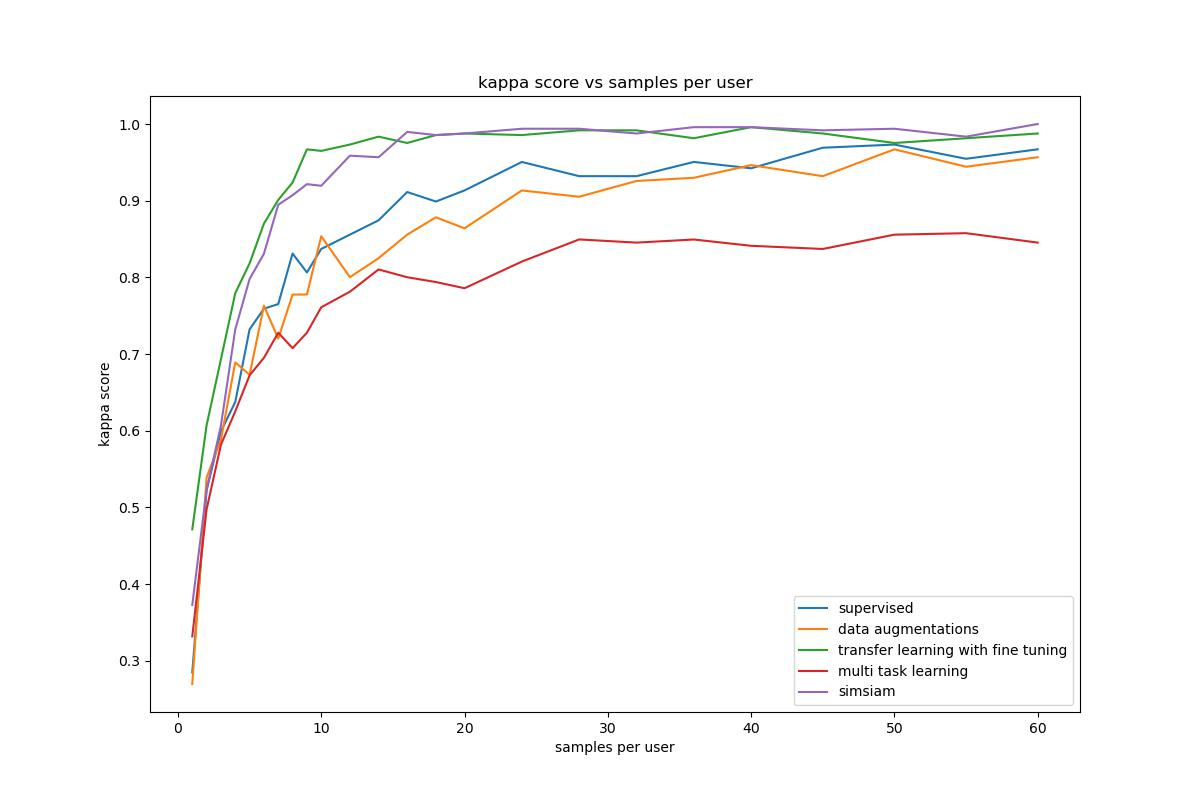
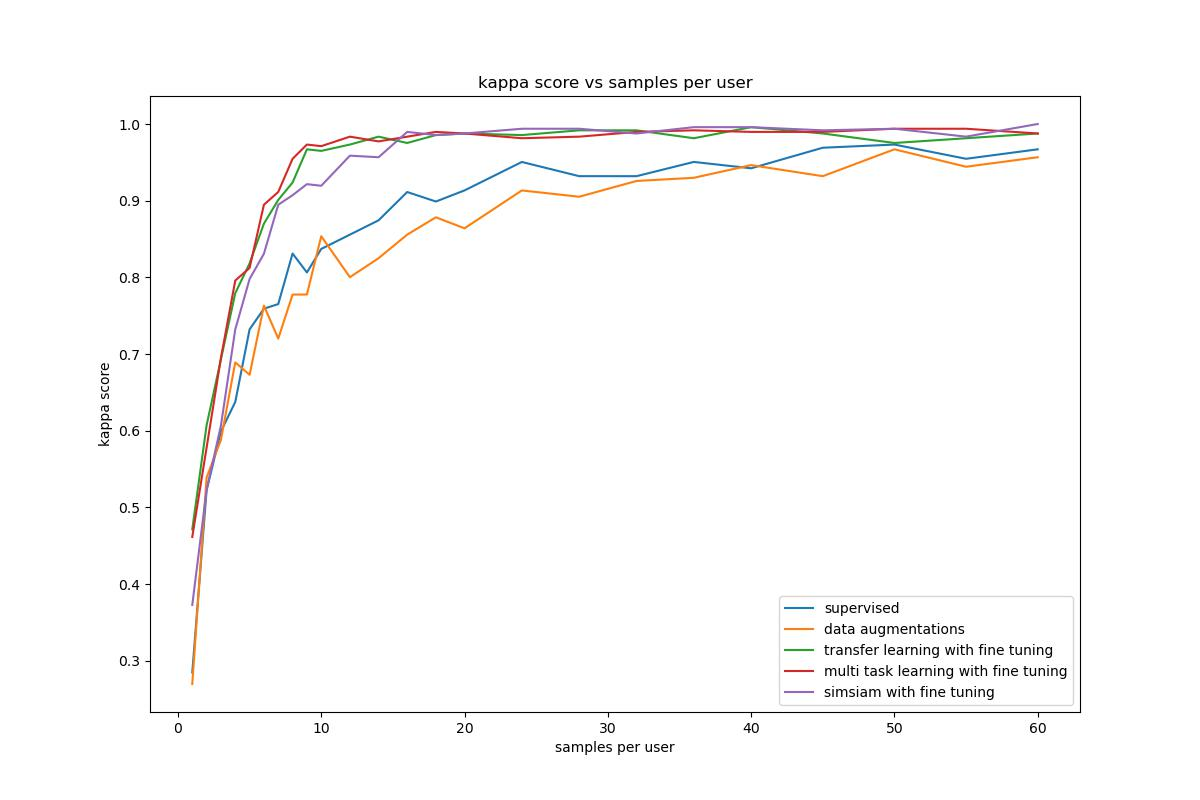
multi task fine tune finished

diff --git a/experiments/MusicID/scen.3/multi_task/data_loader.py b/experiments/MusicID/scen.3/multi_task/data_loader.py
@@ -118,16 +118,16 @@ def data_load(path, users, frame_size=30):
   return x_train, np.array(y_train), x_val, np.array(y_val), x_test, np.array(y_test), sessions
   
 def norma(x_train, x_val, x_test):
-  x = np.reshape(x_train,((x_train.shape[0]*(x_train.shape[1],(x_train.shape[2]))
+  x = np.reshape(x_train,(x_train.shape[0]*x_train.shape[1],x_train.shape[2]))
   scaler = StandardScaler()
   x = scaler.fit_transform(x)
   x_train = np.reshape(x,(x_train.shape[0],x_train.shape[1],x_train.shape[2]))
   
-  x = np.reshape(x_val,((x_val.shape[0]*(x_val.shape[1],(x_val.shape[2]))
+  x = np.reshape(x_val,(x_val.shape[0]*x_val.shape[1],x_val.shape[2]))
   x = scaler.transform(x)
   x_val = np.reshape(x,(x_val.shape[0],x_val.shape[1],x_val.shape[2]))
   
-  x = np.reshape(x_test,((x_test.shape[0]*(x_testl.shape[1],(x_test.shape[2]))
+  x = np.reshape(x_test,(x_test.shape[0]*x_test.shape[1],x_test.shape[2]))
   x = scaler.transform(x)
   x_test = np.reshape(x,(x_test.shape[0],x_test.shape[1],x_test.shape[2]))
   

diff --git a/experiments/MusicID/scen.3/plots.py b/experiments/MusicID/scen.3/plots.py
@@ -147,14 +147,14 @@ plotter(paths, names, variable, variable_name, graph_name)
 paths = ["supervised/graph_data/musicid_scen3_supervised.npz",
           "da/graph_data/musicid_scen3_DA.npz",
           "transfer/graph_data/musicid_scen3_ft5_transfer.npz",
-          "multi_task/graph_data/musicid_scen3_multi task.npz",
+          "multi_task/graph_data/musicid_scen3_ft5_multi task.npz",
           "simsiam/graph_data/musicid_scen3_ft5_simsiam.npz"]
           
 names = ["supervised",
           "data augmentations",
           "transfer learning with fine tuning",
-          "multi task learning",
-          "simsiam"]
+          "multi task learning with fine tuning",
+          "simsiam with fine tuning"]
           
 variable = [1,2,3,4,5,6,7,8,9,10,12,14,16,18,20,24,28,32,36,40,45,50,55,60]
 variable_name = "samples per user"

diff --git a/experiments/MusicID/scen.3/multi_task/plot_loop.py b/experiments/MusicID/scen.3/multi_task/plot_loop.py
@@ -13,5 +13,5 @@ from plot_results import *
 # 4 layer: ft=12 #5
 # all layer: ft=17 #0
 
-for layers in [0]:
+for layers in [1,2,3,4,5]:
   plotspu(layers)
